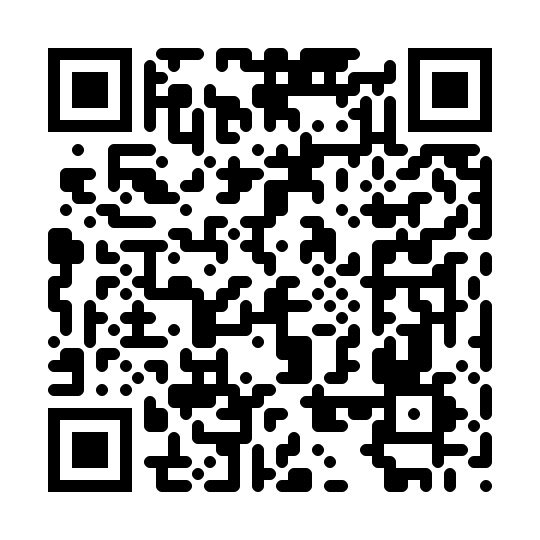
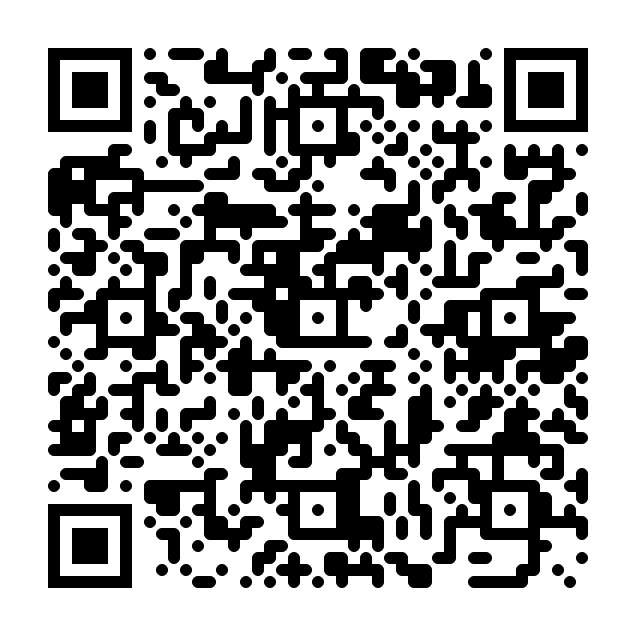
aggiornamento

diff --git a/index.html b/index.html
@@ -181,8 +181,8 @@
         <iframe
           id="yt-player"
           src=""
-          title="YouTube video"
-          allow="accelerometer; autoplay; clipboard-write; encrypted-media; gyroscope; picture-in-picture"
+          title="Google Drive video"
+          allow="autoplay"
           allowfullscreen>
         </iframe>
       </div>
@@ -192,20 +192,21 @@
   <script>
     /*
      * ============================================================
-     *  CONFIGURA QUI I TUOI VIDEO YOUTUBE
-     *  Sostituisci "VIDEO_ID_QUI" con l'ID del tuo video YouTube.
-     *  Esempio: se il link è https://www.youtube.com/watch?v=dQw4w9WgXcQ
-     *  l'ID è: dQw4w9WgXcQ
+     *  CONFIGURA QUI I TUOI VIDEO GOOGLE DRIVE
+     *  Sostituisci "FILE_ID_QUI" con l'ID del file su Google Drive.
+     *  Esempio: se il link è https://drive.google.com/file/d/1ABC123xyz/view
+     *  l'ID è: 1ABC123xyz
+     *  Ricorda di impostare la condivisione su "Chiunque abbia il link".
      * ============================================================
      */
     const videos = {
       prova1: {
         title: 'Prova 1',
-        youtubeId: 'VIDEO_ID_QUI'   // <-- sostituisci con l'ID YouTube di Prova 1
+        driveId: '1YnODXjWegfLMek2WouMj_bUDGeXVHbyG'   // <-- sostituisci con l'ID Google Drive di Prova 1
       },
       prova2: {
         title: 'Prova 2',
-        youtubeId: 'VIDEO_ID_QUI'   // <-- sostituisci con l'ID YouTube di Prova 2
+        driveId: 'FILE_ID_QUI'   // <-- sostituisci con l'ID Google Drive di Prova 2
       }
     };
 
@@ -213,7 +214,7 @@
       const video = videos[key];
       document.getElementById('modal-title').textContent = video.title;
       document.getElementById('yt-player').src =
-        'https://www.youtube.com/embed/' + video.youtubeId + '?autoplay=1&rel=0';
+        'https://drive.google.com/file/d/' + video.driveId + '/preview';
       document.getElementById('modal').classList.add('active');
       document.body.style.overflow = 'hidden';
     }

diff --git a/genera_qr.py b/genera_qr.py
@@ -16,7 +16,7 @@ from qrcode.image.styles.moduledrawers import RoundedModuleDrawer
 #  MODIFICA QUI IL TUO URL (dopo aver pubblicato su GitHub Pages)
 #  Esempio: "https://tuonome.github.io/app-formazione/"
 # ============================================================
-URL = "https://tuonome.github.io/app-formazione/"
+URL = "https://troylion56.github.io/Supporto-tecnico-didattica-RomaTre/"
 
 OUTPUT_FILE = "qrcode_formazione.png"
 
